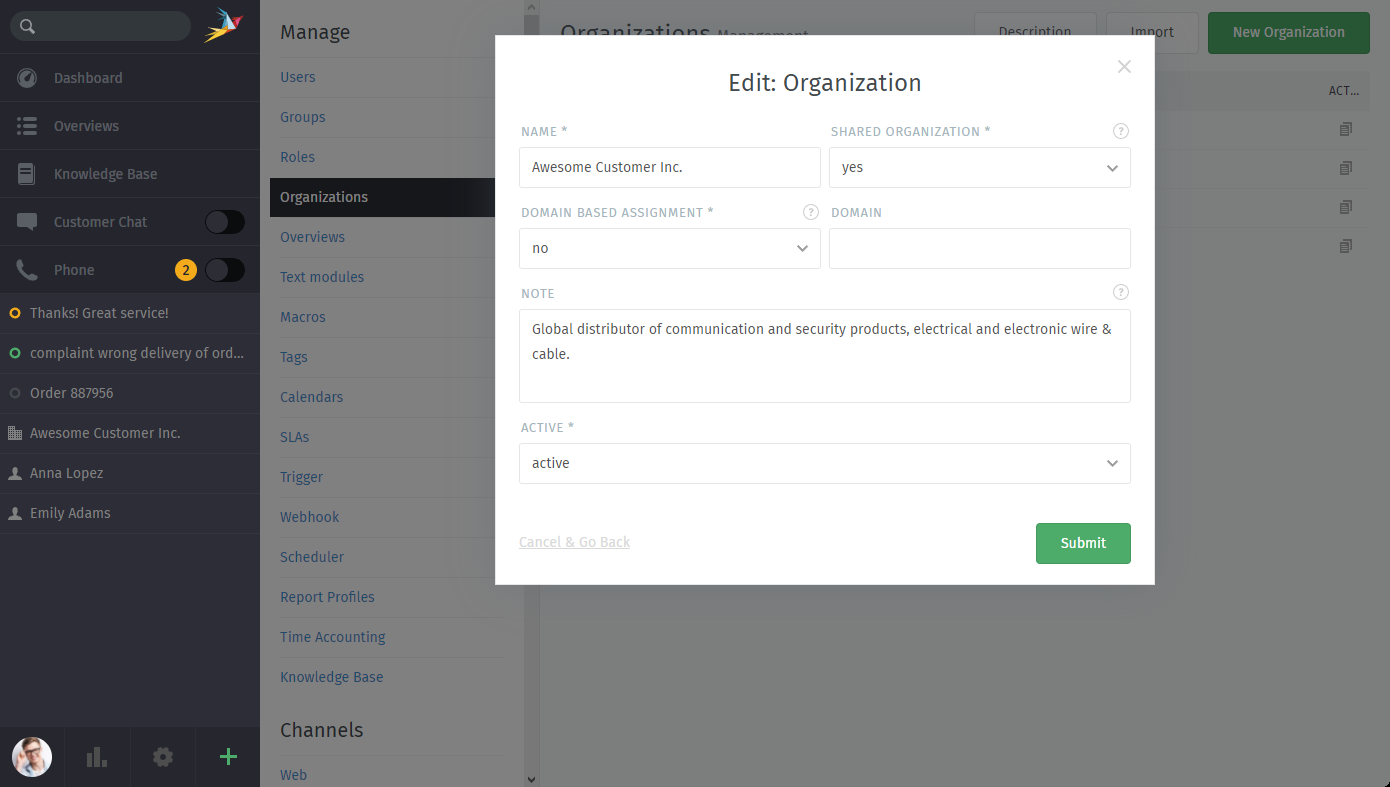
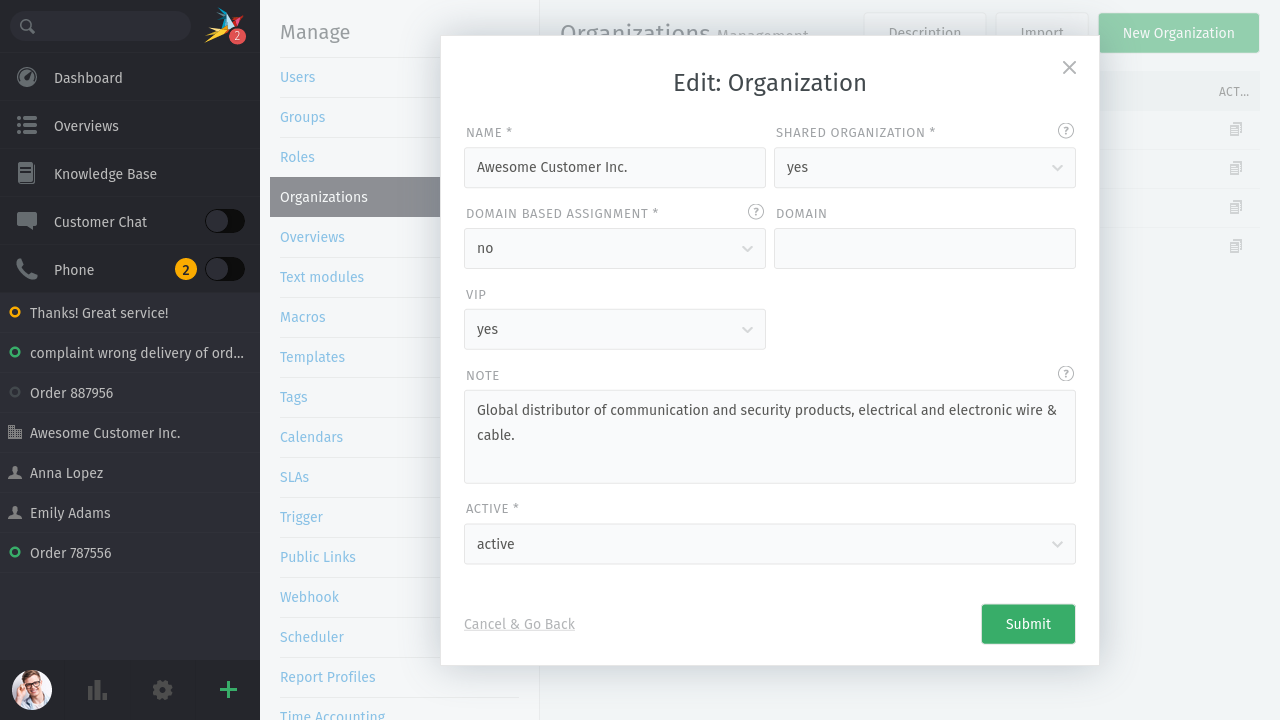
Added VIP feature for organizations

diff --git a/system/variables.rst b/system/variables.rst
@@ -1,14 +1,20 @@
 Variables
 *********
 
-.. note:: Please note that this is just an overview of available variables. It might be incomplete or variables might not be available within some functions.
-   If you're missing variables or are not sure if something is not working as expected, feel free to ask over at the `Community <https://community.zammad.org>`_.
+.. note:: Please note that this is just an overview of available variables.
+   It might be incomplete or variables might not be available within some
+   functions. If you're missing variables or are not sure if something is not
+   working as expected, feel free to ask over at the
+   `Community <https://community.zammad.org>`_.
 
-Variables can be called by typing ``::`` (just like text modules in the frontend), as long as you're in a supported text field within the Backend.
-Zammad will show display all variables being available within this context and replace it to the variable as soon as you selected an entry.
+Variables can be called by typing ``::`` (just like text modules in the 
+frontend), as long as you're in a supported text field within the Backend.
+Zammad will show display all variables being available within this context and
+replace it to the variable as soon as you selected an entry.
 
 .. hint:: You have an empty field which you referenced and it appears as ``-``?
-   That's currently working as designed - you might want to ensure that these fields always have a value (in text fields `` `` is a value!).
+   That's currently working as designed - you might want to ensure that these
+   fields always have a value (in text fields `` `` is a value!).
 
 
 Variable Categories
@@ -25,17 +31,26 @@ Variable Categories
 Wait, what about custom objects?
 --------------------------------
 
-Good point! Of course, we can't predict what objects you might create, but we can give you a hint on how to put the puzzle together to get your custom values.
+Good point! Of course, we can't predict what objects you might create, but we
+can give you a hint on how to put the puzzle together to get your custom values.
 
-For this, we'll talk about the inner part of the variable (so everything within ``#{}``), please put the outer part around to have a valid variable.
-The first part of the variable name consist of the object type. Currently these are:
+For this, we'll talk about the inner part of the variable (so everything
+within ``#{}``), please put the outer part around to have a valid variable.
+The first part of the variable name consist of the object type. Currently
+these are:
 
 * Ticket (``ticket``)
 * User (``user``)
 * Organization (``organization``)
 * Group (``group``)
 
-The second part is the name of the object. This is the name you define during object creation and can be found within the object menu at any time.
-The first and second part of a variable is divided by a point, e.g.: ``ticket.number`` which will in total be ``#{ticket.number}``.
+The second part is the name of the object. This is the name you define during
+object creation and can be found within the object menu at any time.
+The first and second part of a variable is divided by a point, 
+e.g.: ``ticket.number`` which will in total be ``#{ticket.number}``.
 
-Now, in some situations it's possible that you'll need to use a third part. The best example for such a situation would be a ``select`` or ``tree-select`` field which will by default return the key value, not it's display name. For this, just extend your variable with ``.value``. This will result in ``#{ticket.select.value}``.
+Now, in some situations it's possible that you'll need to use a third part.
+The best example for such a situation would be a ``select`` or ``tree-select``
+field which will by default return the key value, not it's display name.
+For this, just extend your variable with ``.value``. This will result in
+``#{ticket.select.value}``.

diff --git a/system/variables/ticket.rst b/system/variables/ticket.rst
@@ -49,6 +49,7 @@ The below list gives you an example what kind of data you can expect, it's not i
    "Ticket > Organization > Name", "``#{ticket.organization.name}``", "``Zammad GmbH`` or empty if not set"
    "Ticket > Organization > Domain based assignment", "``#{ticket.organization.domain_assignment}``", "``false`` or ``true``"
    "Ticket > Organization > Domain", "``#{ticket.organization.domain}``", "``domain.tld`` or empty if not set"
+   "Ticket > Organization > VIP", "``#{ticket.organization.vip}``", "``false`` or ``true``"
    "Ticket > #", "``#{ticket.number}``", "``31001``, ``201910731001``, ..."
    "Ticket > Last contact (customer)", "``#{ticket.last_contact_customer_at}``", "``2019-10-07 16:25:00 UTC`` or empty if not applicable yet (Please note `Ticket last contact behaviour Settings <https://admin-docs.zammad.org/en/latest/settings-ticket.html>`_ for this)"
    "Ticket > Last contact", "``#{ticket.last_contact_at}``", "``2019-10-07 16:25:00 UTC``"

diff --git a/manage/organizations/index.rst b/manage/organizations/index.rst
@@ -120,6 +120,19 @@ The ones that aren’t are described below.
       to ensure to not use free mailer domains like ``gmail.com`` for these
       assignments.
 
+👑 VIP
+   This flag is a way for your team to indicate high-status organizations. Just
+   as with customers, you can set up special :doc:`/manage/trigger`,
+   :doc:`/manage/scheduler` jobs, :doc:`/manage/slas/index`,
+   and :doc:`/manage/overviews` just for VIPs.
+
+   .. figure:: /images/manage/organizations/vip-org-in-a-ticket.png
+      :alt: Ticket view showing a VIP organization’s avatar with a crown on it
+      :align: center
+      :width: 90%
+
+      VIP organizations are displayed with a crown above their avatars.
+
 📑 Note
    Notes are visible to all staff members, **including agents**.
 

diff --git a/system/variables/current-user.rst b/system/variables/current-user.rst
@@ -35,6 +35,7 @@ Current user variables always return values of the current user that caused e.g.
    "Current User > Organization > Name", "``#{user.organization.name}``", ""
    "Current User > Organization > Domain based assignment", "``#{user.organization.domain_assignment}``", ""
    "Current User > Organization > Domain", "``#{user.organization.domain}``", "``Zammad GmbH`` or empty if not set"
+   "Current User > Organization > VIP", "``#{user.organization.vip}``", "``true`` or ``false``"
    "Current User > Note", "``#{user.note}``", "``Some note to this user`` or empty if not set"
    "Current User > Mobile", "``#{user.mobile}``", "``0049176123456789`` or empty if not set"
    "Current User > Login", "``#{user.login}``", "``jdoe``"

diff --git a/manage/webhook/payload.rst b/manage/webhook/payload.rst
@@ -141,6 +141,7 @@ Regular Webhooks (example)
             "created_by": "-",
             "created_by_id": 1,
             "domain_assignment": false,
+            "vip": true,
             "id": 3,
             "member_ids": [
               8,
